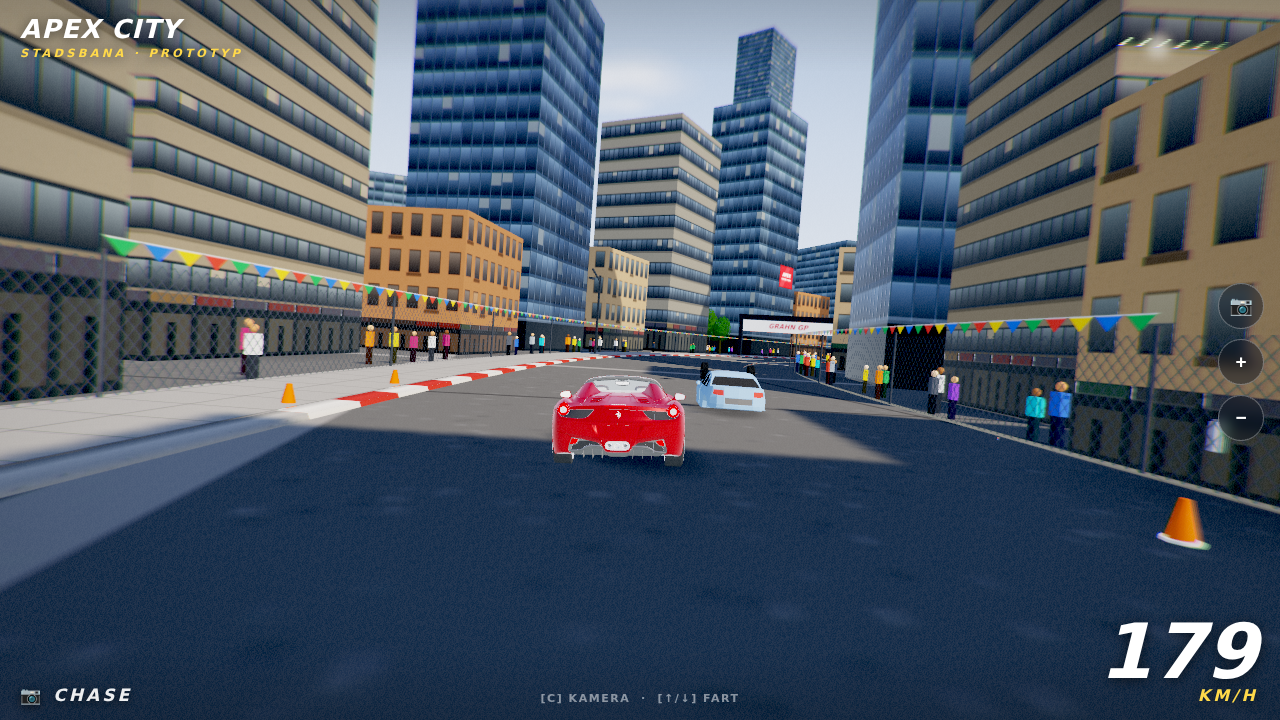
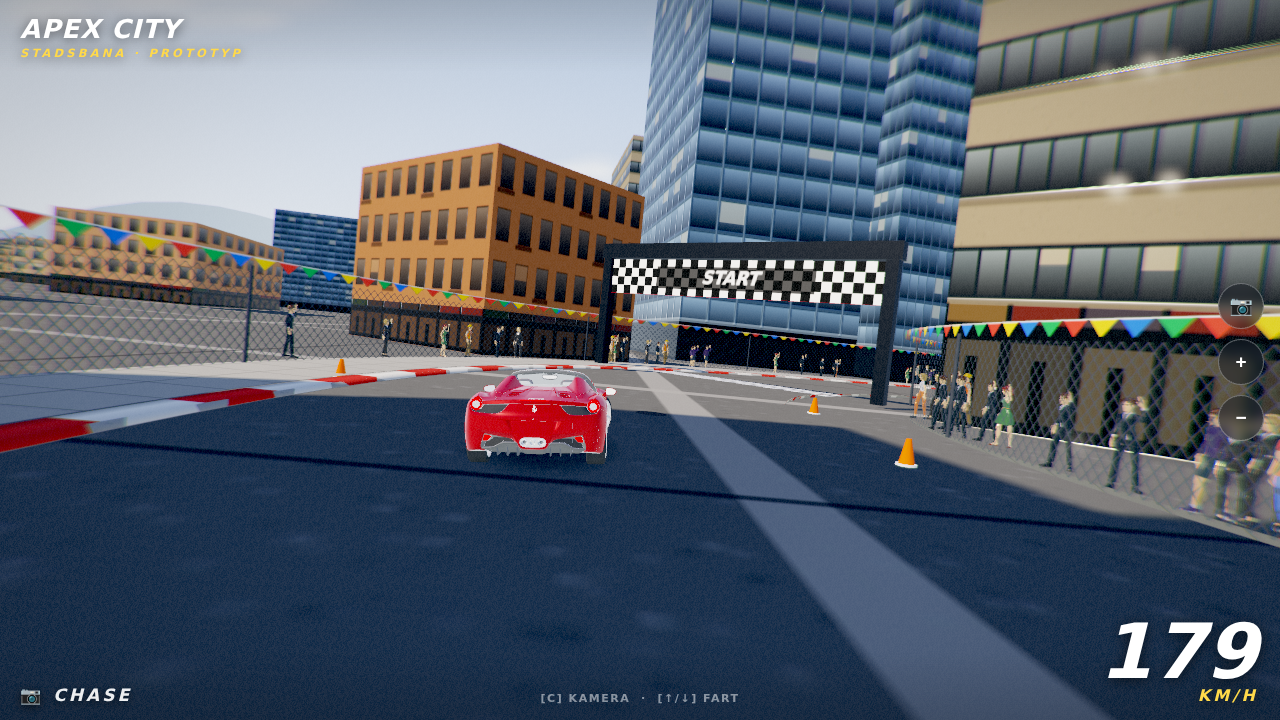
Upgrade crowd to baked-pose real characters
The box-people clashed with the rest of the graphics. The crowd is now
built from real character models matching the scene:

- Seven Quaternius Ultimate Modular characters (CC0, colored materials,
  Wave/Idle/Walk clips) added to assets/people; white untextured
  mannequin removed
- bakePose(): samples a skinned character at a chosen animation frame
  and bakes it to static world-space geometry — the crowd is instanced
  frozen mid-wave/idle poses (the classic grandstand impostor trick),
  with per-person tint variation and no shadow pass
- Corner crowds are two loose rows of waving/watching spectators;
  bystanders elsewhere use idle poses; clip matching anchored to name
  suffixes so Idle_Gun/Punch poses are never picked
- Fully animated wavers (Anne) and sidewalk walkers remain as accents

Claude-Session: https://claude.ai/code/session_01CNsNz6RDNVmzd2F8FiNWPi

diff --git a/src/extras.js b/src/extras.js
@@ -7,13 +7,12 @@ import { mulberry32 } from './textures.js';
 import { makeGLTFLoader } from './car.js';
 import * as SkeletonUtils from '../vendor/utils/SkeletonUtils.js';
 
-const CHARACTERS = ['assets/people/anne.glb', 'assets/people/woman.glb', 'assets/people/human.glb'];
-
-const CLOTHES = [
-  0xc94f3d, 0x3d6bc9, 0x3da05a, 0xd8c13a, 0xd8d8d8, 0x8a4fc9,
-  0x36b6c4, 0xe07f2e, 0x555a63, 0xb03a68, 0x2e3a4e, 0x9aa5ad,
+const CHARACTERS = [
+  'assets/people/anne.glb', 'assets/people/woman.glb',
+  'assets/people/hoodie.glb', 'assets/people/suit.glb', 'assets/people/worker.glb',
+  'assets/people/casual.glb', 'assets/people/bizman.glb',
+  'assets/people/woman2.glb', 'assets/people/woman3.glb',
 ];
-const SKINS = [0xf2c9a4, 0xe0ac7e, 0xc98d5f, 0x9c6b43, 0x7a4f30, 0xf7d7b8];
 
 function paintVerts(g, hex) {
   const n = g.attributes.position.count;
@@ -24,27 +23,45 @@ function paintVerts(g, hex) {
   return g;
 }
 
-// body geometry, arms down or cheering; clothing painted white (tinted per instance)
-function personGeometry(cheer) {
+// Bake a skinned character at one animation frame into static world-space
+// geometry — the crowd is then instanced real bodies in frozen poses, the
+// same impostor trick PS3-era games used for grandstands.
+function bakePose(gltf, clip, time) {
+  const clone = SkeletonUtils.clone(gltf.scene);
+  const mixer = new THREE.AnimationMixer(clone);
+  mixer.clipAction(clip).play();
+  mixer.update(time);
+  clone.updateMatrixWorld(true);
+
   const parts = [];
-  const legs = new THREE.BoxGeometry(0.26, 0.72, 0.17);
-  legs.translate(0, 0.36, 0);
-  parts.push(paintVerts(legs, 0x3a3d44)); // dark pants, tint shifts them subtly
-  const torso = new THREE.BoxGeometry(0.36, 0.56, 0.22);
-  torso.translate(0, 1.0, 0);
-  parts.push(paintVerts(torso, 0xffffff));
-  for (const sx of [-1, 1]) {
-    const arm = new THREE.BoxGeometry(0.09, 0.5, 0.11);
-    if (cheer) {
-      arm.translate(0, 0.25, 0);
-      arm.rotateZ(sx * 2.55); // raised overhead
-      arm.translate(sx * 0.2, 1.25, 0);
-    } else {
-      arm.translate(sx * 0.24, 0.99, 0);
+  const v = new THREE.Vector3();
+  clone.traverse((o) => {
+    if (o.isSkinnedMesh) {
+      o.skeleton.update();
+      const g = o.geometry.clone();
+      const src = o.geometry.attributes.position;
+      const pos = g.attributes.position;
+      for (let i = 0; i < pos.count; i++) {
+        v.fromBufferAttribute(src, i);
+        o.applyBoneTransform(i, v);
+        v.applyMatrix4(o.matrixWorld);
+        pos.setXYZ(i, v.x, v.y, v.z);
+      }
+      g.deleteAttribute('skinIndex');
+      g.deleteAttribute('skinWeight');
+      g.computeVertexNormals();
+      parts.push({ geometry: g, material: o.material });
     }
-    parts.push(paintVerts(arm, 0xffffff));
-  }
-  return mergeGeoms(parts);
+  });
+  // normalize: feet at y=0, centred, ~1.72 m tall
+  const box = new THREE.Box3();
+  for (const p of parts) { p.geometry.computeBoundingBox(); box.union(p.geometry.boundingBox); }
+  const size = box.getSize(new THREE.Vector3());
+  const s = 1.72 / size.y;
+  const m = new THREE.Matrix4().makeScale(s, s, s)
+    .multiply(new THREE.Matrix4().makeTranslation(-(box.min.x + box.max.x) / 2, -box.min.y, -(box.min.z + box.max.z) / 2));
+  for (const p of parts) p.geometry.applyMatrix4(m);
+  return parts;
 }
 
 // Ribbon UVs: u (texture x) runs top→bottom of the strip, v (texture y)
@@ -75,63 +92,32 @@ export function buildExtras(scene, curve, length, cornerSpans) {
   const dummy = new THREE.Object3D();
   const color = new THREE.Color();
 
-  // ---------------- people placement ----------------
-  const people = []; // {x, z, rot, h, cheer, clothes, skin}
+  // ---------------- crowd placement (filled with baked poses once loaded) ---
+  const crowdSpots = []; // {x, z, rot, h, cheer}
   const put = (s, off, side, facing, cheer) => {
-    const { p, t, r } = frameAt(curve, length, s);
+    const { r, p } = frameAt(curve, length, s);
     const x = p.x + r.x * side * off, z = p.z + r.z * side * off;
     const yawToTrack = Math.atan2(-side * r.x, -side * r.z);
-    people.push({
+    crowdSpots.push({
       x, z,
       rot: facing === 'track' ? yawToTrack + (rng() - 0.5) * 0.5 : rng() * Math.PI * 2,
-      h: 0.88 + rng() * 0.24,
+      h: 0.92 + rng() * 0.18,
       cheer,
-      clothes: CLOTHES[Math.floor(rng() * CLOTHES.length)],
-      skin: SKINS[Math.floor(rng() * SKINS.length)],
     });
   };
-  // dense crowds at the corners, behind the catch fence
+  // dense crowds at the corners, behind the catch fence (two loose rows)
   for (const [a, b] of cornerSpans) {
-    const n = Math.floor((b - a) / 1.6);
+    const n = Math.floor((b - a) / 1.1);
     for (let i = 0; i < n; i++) {
       const s = a + rng() * (b - a);
       const side = rng() < 0.6 ? 1 : -1;
-      put(s, ROAD_HALF + 4.3 + rng() * 1.1, side, 'track', rng() < 0.35);
+      put(s, ROAD_HALF + 4.3 + rng() * 1.4, side, 'track', true);
     }
   }
   // scattered pedestrians along the rest of the lap
   for (let s = 0; s < length; s += 9) {
     if (rng() < 0.4) continue;
     put(s + rng() * 6, ROAD_HALF + 4.3 + rng() * 1.3, rng() < 0.5 ? 1 : -1, 'any', false);
-  }
-
-  const standGeo = personGeometry(false);
-  const cheerGeo = personGeometry(true);
-  const bodyMat = new THREE.MeshStandardMaterial({ vertexColors: true, roughness: 0.9 });
-  const headGeo = new THREE.SphereGeometry(0.115, 10, 8);
-  headGeo.translate(0, 1.42, 0);
-  const headMat = new THREE.MeshStandardMaterial({ roughness: 0.7 });
-
-  for (const cheer of [false, true]) {
-    const group = people.filter((p) => p.cheer === cheer);
-    if (!group.length) continue;
-    const bodies = new THREE.InstancedMesh(cheer ? cheerGeo : standGeo, bodyMat, group.length);
-    const heads = new THREE.InstancedMesh(headGeo, headMat, group.length);
-    bodies.frustumCulled = heads.frustumCulled = false;
-    bodies.castShadow = true;
-    group.forEach((p, i) => {
-      dummy.position.set(p.x, 0, p.z);
-      dummy.rotation.set(0, p.rot, 0);
-      dummy.scale.set(p.h, p.h, p.h);
-      dummy.updateMatrix();
-      bodies.setMatrixAt(i, dummy.matrix);
-      heads.setMatrixAt(i, dummy.matrix);
-      bodies.setColorAt(i, color.setHex(p.clothes));
-      heads.setColorAt(i, color.setHex(p.skin));
-    });
-    bodies.instanceColor.needsUpdate = true;
-    heads.instanceColor.needsUpdate = true;
-    scene.add(bodies, heads);
   }
 
   // ---------------- bunting over the corner fences ----------------
@@ -216,22 +202,72 @@ export function buildExtras(scene, curve, length, cornerSpans) {
     .then((gltfs) => {
       const loaded = gltfs.filter(Boolean);
       if (!loaded.length) return;
-      // cheering front row at the corners
+
+      // -------- baked-pose instanced crowd (light characters only) ---------
+      const isLight = (g) => {
+        let tris = 0;
+        g.scene.traverse((o) => { if (o.isMesh || o.isSkinnedMesh) tris += (o.geometry.index?.count || o.geometry.attributes.position.count) / 3; });
+        return tris < 8000;
+      };
+      const massChars = loaded.filter(isLight);
+      const cheerPoses = [], standPoses = [];
+      for (const g of massChars) {
+        const clips = g.animations;
+        const grab = (re, times, out) => {
+          const clip = clips.find((c) => re.test(c.name));
+          if (!clip) return;
+          for (const f of times) out.push(bakePose(g, clip, clip.duration * f));
+        };
+        // clip names end with the action ("...|Wave"); avoid Idle_Gun etc.
+        grab(/wave$/i, [0.3, 0.62], cheerPoses); // arm overhead mid-wave
+        grab(/idle(_neutral)?$/i, [0.2, 0.7], standPoses);
+      }
+      const buildCrowd = (spots, poses) => {
+        if (!spots.length || !poses.length) return;
+        const buckets = poses.map(() => []);
+        spots.forEach((sp) => buckets[Math.floor(rng() * poses.length)].push(sp));
+        buckets.forEach((bucket, pi) => {
+          if (!bucket.length) return;
+          for (const part of poses[pi]) {
+            const im = new THREE.InstancedMesh(part.geometry, part.material, bucket.length);
+            im.frustumCulled = false; // spectators are cheap: no shadow pass
+            bucket.forEach((sp, i) => {
+              dummy.position.set(sp.x, 0.02, sp.z);
+              dummy.rotation.set(0, sp.rot, 0);
+              dummy.scale.setScalar(sp.h);
+              dummy.updateMatrix();
+              im.setMatrixAt(i, dummy.matrix);
+              // subtle per-person tint so identical clones read as different people
+              im.setColorAt(i, color.setHSL(rng(), 0.08, 0.85 + rng() * 0.14));
+            });
+            im.instanceColor.needsUpdate = true;
+            scene.add(im);
+          }
+        });
+      };
+      // corners: mostly waving, some just watching; elsewhere: idle bystanders
+      buildCrowd(crowdSpots.filter((s) => s.cheer),
+        cheerPoses.length ? [...cheerPoses, ...cheerPoses, ...standPoses] : standPoses);
+      buildCrowd(crowdSpots.filter((s) => !s.cheer), standPoses.length ? standPoses : cheerPoses);
+
+      // -------- fully animated accents ------------------------------------
+      // wavers: prefer a character that actually has a wave clip
+      const waver = loaded.find((g) => g.animations.some((c) => /wave/i.test(c.name))) || loaded[0];
       for (const [a, b] of cornerSpans) {
-        const n = Math.min(6, Math.floor((b - a) / 8));
+        const n = Math.min(4, Math.floor((b - a) / 12));
         for (let i = 0; i < n; i++) {
           const s = a + rng() * (b - a);
           const side = rng() < 0.6 ? 1 : -1;
           const { p, r } = frameAt(curve, length, s);
-          const off = ROAD_HALF + 3.95 + rng() * 0.5;
+          const off = ROAD_HALF + 3.95 + rng() * 0.4;
           const yaw = Math.atan2(-side * r.x, -side * r.z);
-          spawn(loaded[Math.floor(rng() * loaded.length)], /wave|yes|cheer/i,
+          spawn(waver, /wave|yes|cheer/i,
             p.x + r.x * side * off, p.z + r.z * side * off, yaw + (rng() - 0.5) * 0.4);
         }
       }
       // walkers strolling the sidewalks
       for (let i = 0; i < 12; i++) {
-        const g = loaded[Math.floor(rng() * loaded.length)];
+        const g = massChars.length ? massChars[Math.floor(rng() * massChars.length)] : loaded[0];
         const obj = spawn(g, /walk/i, 0, 0, 0);
         walkers.push({
           obj,

diff --git a/assets/LICENSES.md b/assets/LICENSES.md
@@ -20,4 +20,7 @@ Filer: `taxi.glb`, `cop.glb`, `suv.glb`, `sedan1.glb`, `sedan2.glb`, `sports1.gl
 |---|---|---|---|
 | `anne.glb` | "Anne" | [Polygonal](https://poly.pizza/m/5H6AFiRxcd) | CC0 |
 | `woman.glb` | "Animated Woman" | [Quaternius](https://poly.pizza/m/kttbFvCl2C) | CC-BY 3.0 — kredit: Quaternius |
-| `human.glb` | "Animated Human" | [Matt](https://poly.pizza/m/1BQyXYZ9LPz) | CC-BY 3.0 — kredit: Matt |
+| `hoodie.glb`, `suit.glb`, `worker.glb`, `casual.glb`, `bizman.glb`, `woman2.glb`, `woman3.glb` | Ultimate Modular-karaktärer (t.ex. [Hoodie Character](https://poly.pizza/m/gKLBoRsyKe)) | [Quaternius](https://quaternius.com) | CC0 |
+
+Publiken i spelet består av dessa karaktärer instansierade i bakade animationsposer
+(vinkande/stående), plus ett antal fullt skelettanimerade exemplar i främsta ledet.